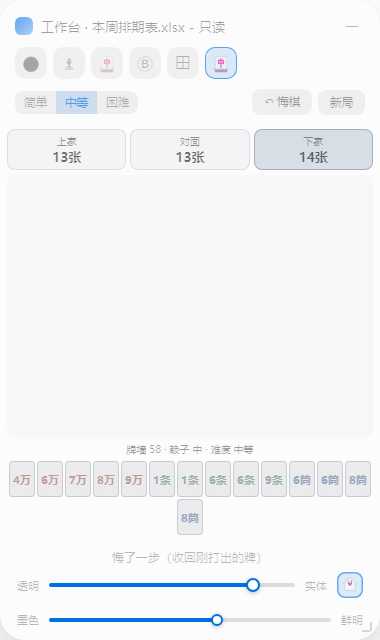
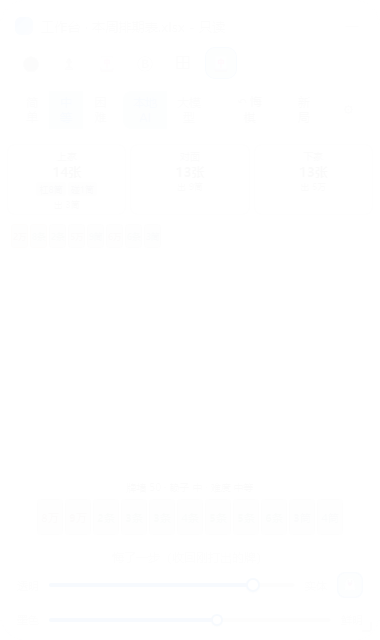
fix: 麻将赖子评分反向 + 新增大模型出牌模式
- 修复赖子评分 bug：1e9 → -1e9（此前 AI 疯狂把万能红中打出去）
- 大模型模式下 3 个 AI 出牌走 LLM：prompt 含手牌/副露/牌河/牌墙，解析回复中的牌名，
  未配置/失败/解析不出自动回退本地启发式；玩家操作不受影响
- mock 服务器扩展 /v1/chat/completions，冒烟验证 LLM 出牌链路（9 次调用全部生效）
- 模拟 20 局：全胡 + 牌河红中 = 0

diff --git a/renderer/games/mahjong.js b/renderer/games/mahjong.js
@@ -101,7 +101,7 @@
 
   /* ============ 游戏工厂 ============ */
   function factory() {
-    let root, ctx = null, diff = 'medium';
+    let root, ctx = null, diff = 'medium', mode = 'local';
     let wall = [], players = [], turnIdx = 0, banker = 0;
     let phase = 'idle';          // idle | turn | claim | over
     let drawn = null;            // 刚摸到的牌 { seat, tile }
@@ -295,7 +295,7 @@
       for (const t of p.concealed) c[t]++;
       const scored = [];
       p.concealed.forEach((t, i) => {
-        if (t === LAIZI) { scored.push({ i, s: 1e9 }); return; }   // 绝不打赖子
+        if (t === LAIZI) { scored.push({ i, s: -1e9 }); return; }  // 赖子=万能牌，分数最低=最不舍得打
         let s = 0;
         s -= c[t] * 10;                       // 同张越多越不舍得
         const r = t % 9;
@@ -324,6 +324,30 @@
       return (trips + pairs + lz) >= 2 || p.melds.length >= 1;
     }
 
+    /** 大模型模式：让 LLM 决定 AI 出哪张（失败/解析不出回退本地启发式） */
+    function recentDiscards(n) {
+      const arr = [];
+      for (let s2 = 0; s2 < 4; s2++) for (const t of players[s2].discards) arr.push(tileLabel(t));
+      return arr.slice(-(n || 10)).join(' ') || '无';
+    }
+
+    async function llmChooseDiscard(p) {
+      const hand = p.concealed.map(tileLabel).join(' ');
+      const meldStr = p.melds.length
+        ? p.melds.map(m => (m.type === 'gang' ? '杠' : '碰') + tileLabel(m.tile)).join('，')
+        : '无';
+      const text = await ctx.llm([
+        { role: 'system', content: '你是红中麻将高手。规则：牌只有万/条/筒(各1-9)和红中；红中是赖子百搭，绝不能打出去；没有吃，只能碰杠；胡型=4副(顺子或刻子)+1对将。策略：优先保留对子、刻子、同花色连张，拆孤张，快听牌时留安全牌。' },
+        { role: 'user', content: `你的手牌：${hand}\n已副露：${meldStr}\n最近各家出牌：${recentDiscards()}\n牌墙剩余：${wall.length} 张\n只输出一张你要打出的牌名（例如：5条），不要任何解释。` },
+      ], { temperature: 0.3, maxTokens: 20 });
+      // 解析：在回复里找一张真实存在于手牌的牌（绝不允许打赖子）
+      for (const t of p.concealed) {
+        if (t === LAIZI) continue;
+        if (text.indexOf(tileLabel(t)) >= 0) return p.concealed.indexOf(t);
+      }
+      return -1;
+    }
+
     function botDiscard(p) {
       if (phase !== 'turn' || turnIdx !== p.seat) return;
       // 暗杠：手里有 4 张真牌
@@ -340,6 +364,18 @@
             return;
           }
         }
+      }
+      // 大模型模式：AI 出牌走 LLM（未配置/失败/解析不出 → 回退本地启发式）
+      if (mode === 'llm' && p.bot && ctx.llm) {
+        ctx.setStatus(`${SEAT_NAME[p.seat]}思考中…`);
+        llmChooseDiscard(p).then(idx => {
+          if (phase !== 'turn' || turnIdx !== p.seat) return;
+          doDiscard(p, idx >= 0 ? idx : chooseDiscard(p));
+        }).catch(() => {
+          if (phase !== 'turn' || turnIdx !== p.seat) return;
+          doDiscard(p, chooseDiscard(p));
+        });
+        return;
       }
       doDiscard(p, chooseDiscard(p));
     }
@@ -455,6 +491,7 @@
           hands: players.map(p => p.concealed.length),
           melds: players.map(p => p.melds.length),
           pool: players.reduce((n, p) => n + p.discards.length, 0),
+          poolLaizi: players.reduce((n, p) => n + p.discards.filter(t => t === LAIZI).length, 0),
           canDiscard: phase === 'turn' && turnIdx === 0,
           pending: pending ? pending.type : '',
         });
@@ -482,6 +519,7 @@
         try { delete window.__mjDiscard; } catch (e) { window.__mjDiscard = null; }
         try { delete window.__mjClaim; } catch (e) { window.__mjClaim = null; }
       },
+      onModeChange(m) { mode = m; },
       // 注意：activateGame 每次切游戏都会调一次 onDiffChange，
       // 这里绝不能重开回合（会多发一张牌破坏张数守恒），只在难度真变了才重开一局
       onDiffChange(d) {
@@ -508,6 +546,6 @@
     name: '红中麻将',
     icon: '🀄',
     factory,
-    flags: { hasAI: true, llm: false },   // 3 个本地 AI；大模型打牌没意义 → 由 app 隐藏模式切换与 ⚙
+    flags: { hasAI: true },   // 3 个 AI 对手；大模型模式下 AI 出牌走 LLM
   });
 })();

diff --git a/main.js b/main.js
@@ -330,6 +330,49 @@ function createWindow() {
                 await new Promise(r => setTimeout(r, 300));
               }
               console.log(`[SMOKE] 麻将 3 局结果: 胡家=${JSON.stringify(huSeats)} 流局 ${drew} 次`);
+
+              // LLM 模式验证：备份原配置 → 填 mock → 切大模型模式 → 打一段对局 → 恢复
+              const envUrl = process.env.GLASS_SMOKE_LLM_URL || '';
+              const envKey = process.env.GLASS_SMOKE_LLM_KEY || '';
+              if (envUrl && envKey) {
+                const orig = await win.webContents.executeJavaScript(`(function () {
+                  var $ = function (id) { return document.getElementById(id); };
+                  $('llmPanel').classList.add('show');
+                  return JSON.stringify({ url: $('llmUrl').value, key: $('llmKey').value, model: $('llmModel').value });
+                })()`);
+                await win.webContents.executeJavaScript(`(function () {
+                  var env = { url: ${JSON.stringify(envUrl)}, key: ${JSON.stringify(envKey)} };
+                  var $ = function (id) { return document.getElementById(id); };
+                  $('llmPanel').classList.add('show');
+                  $('llmUrl').value = env.url; $('llmKey').value = env.key; $('llmModel').value = 'mock';
+                  $('llmSave').click();
+                  var b = document.querySelector('#modeSeg button[data-mode="llm"]');
+                  if (b) b.click();
+                  return 1;
+                })()`);
+                await new Promise(r => setTimeout(r, 300));
+                let ls = 0, ll = null;
+                for (; ls < 120; ls++) {
+                  ll = JSON.parse(await win.webContents.executeJavaScript(
+                    "JSON.stringify(window.__smokeState())"));
+                  if (ll.phase === 'over') break;
+                  if (ll.canDiscard) await win.webContents.executeJavaScript("window.__mjPlayAsBot()");
+                  else if (ll.pending) await win.webContents.executeJavaScript("window.__mjClaim(true)");
+                  await new Promise(r => setTimeout(r, 60));
+                }
+                console.log(`[SMOKE] 麻将 LLM模式 ${ls} 步: phase=${ll.phase} 胡家=${ll.winner} 牌河=${ll.pool}`);
+                // 恢复原配置 + 切回本地模式
+                await win.webContents.executeJavaScript(`(function () {
+                  var o = ${orig};
+                  var $ = function (id) { return document.getElementById(id); };
+                  $('llmPanel').classList.add('show');
+                  $('llmUrl').value = o.url; $('llmKey').value = o.key; $('llmModel').value = o.model;
+                  $('llmSave').click();
+                  var b = document.querySelector('#modeSeg button[data-mode="local"]');
+                  if (b) b.click();
+                  return 1;
+                })()`);
+              }
               // 悔棋：收回最后打出的一张
               await win.webContents.executeJavaScript("window.__mjDiscard(0)");
               await new Promise(r => setTimeout(r, 200));

diff --git a/tools/test-mahjong-sim.js b/tools/test-mahjong-sim.js
@@ -56,7 +56,7 @@ const claim = (y) => sandbox.window.__mjClaim(y);
 
 /* ---------- 跑 N 局 ---------- */
 const GAMES = Number(process.argv[2]) || 20;
-let huCount = 0, drewCount = 0, errors = 0;
+let huCount = 0, drewCount = 0, errors = 0, laiziThrown = 0;
 const huBySeat = [0, 0, 0, 0];
 
 for (let g = 1; g <= GAMES; g++) {
@@ -70,7 +70,8 @@ for (let g = 1; g <= GAMES; g++) {
     }
     if (last.winner >= 0) { huCount++; huBySeat[last.winner]++; }
     else drewCount++;
-    console.log(`第${g}局 steps=${steps} 胡家=${last.winner} 牌墙剩=${last.wall} 副露=${JSON.stringify(last.melds)}`);
+    if (last.poolLaizi > 0) laiziThrown += last.poolLaizi;
+    console.log(`第${g}局 steps=${steps} 胡家=${last.winner} 牌墙剩=${last.wall} 副露=${JSON.stringify(last.melds)} 牌河红中=${last.poolLaizi}`);
     // 开下一局
     if (g < GAMES) sandbox.window.__mjNewGame && sandbox.window.__mjNewGame();
   } catch (e) {
@@ -79,6 +80,6 @@ for (let g = 1; g <= GAMES; g++) {
     break;
   }
 }
-console.log(`\n结果: ${GAMES} 局 → 胡 ${huCount} / 流局 ${drewCount} / 出错 ${errors}`);
+console.log(`\n结果: ${GAMES} 局 → 胡 ${huCount} / 流局 ${drewCount} / 出错 ${errors} / 牌河红中 ${laiziThrown}（应为 0）`);
 console.log(`胡家分布 [你/下家/对面/上家]: ${JSON.stringify(huBySeat)}`);
 process.exit(errors ? 1 : 0);

diff --git a/tools/mock-models.js b/tools/mock-models.js
@@ -21,6 +21,27 @@ http.createServer((req, res) => {
       object: 'list',
       data: FAKE.map(id => ({ id, object: 'model', owned_by: 'mock' })),
     }));
+  } else if (req.url === '/v1/chat/completions' && req.method === 'POST') {
+    // 模拟麻将 AI：从 prompt 里解析手牌，随机打一张（绝不打"中"/赖子）
+    let body = '';
+    req.on('data', d => { body += d; });
+    req.on('end', () => {
+      try {
+        const j = JSON.parse(body);
+        const user = (j.messages || []).find(m => m.role === 'user');
+        const m = user && user.content.match(/你的手牌：([^\n]+)/);
+        const hand = m ? m[1].trim().split(/\s+/).filter(t => t !== '中') : ['1万'];
+        const pick = hand.length ? hand[Math.floor(Math.random() * hand.length)] : '1万';
+        console.log(`MOCK chat -> ${pick}  (手牌 ${hand.length} 张)`);
+        res.writeHead(200, { 'Content-Type': 'application/json' });
+        res.end(JSON.stringify({
+          choices: [{ message: { role: 'assistant', content: pick } }],
+        }));
+      } catch (e) {
+        res.writeHead(500, { 'Content-Type': 'application/json' });
+        res.end(JSON.stringify({ error: 'mock parse fail' }));
+      }
+    });
   } else {
     res.writeHead(404, { 'Content-Type': 'application/json' });
     res.end(JSON.stringify({ error: 'not found' }));
